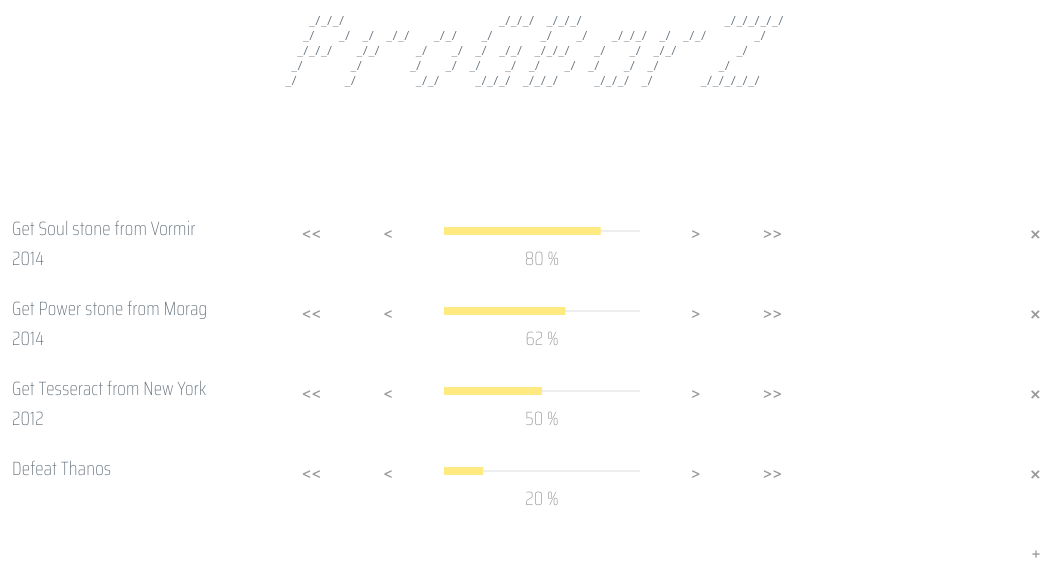
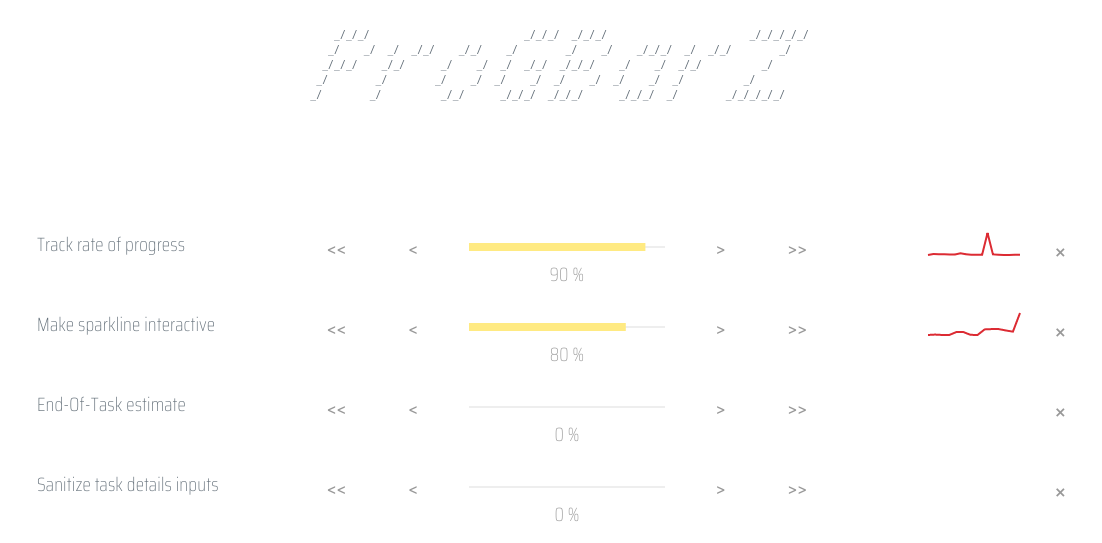
Feature/progress rate (#4) (#5)
* fixed bar update value bug

* Create FUNDING.yml

* Create CODE_OF_CONDUCT.md

* Create CONTRIBUTING.md

* Update issue templates

* added screenshot

* screenshot fix

* Feature/projects (#3)

* added migration facility

* added migration documentation

* markdown formatting

* markdown formatting

* markdown formatting

* fixed typo

* added screenshot

* screenshot fix

* screenshot fix

* initial styling of projects row

* promisified database decoration

* added projects marko component

* added ability to select project and show relevant tasks

* fixed migration process and now making sure that when we create the initial db we also run all migrations

* now using a left hand sidenave for project listing

* modified the position of the sidenav bar

* correctly updating project/task join table

* added ability to add projects

* added ability to modify project's name

* fixed bar update rest call

* added is_active column for projects

* added support for archiving projects

* making sure we redirect to the correct project whenever we delete a task

* initial commit of progress rate visualisation

* added static sparkline + sparkline marko component

* implemented progress rate computation and dynamic sparkline data injection

* updated screenshot

* updated screenshot

* added blurb about progress rate

diff --git a/public/js/sparkline.js b/public/js/sparkline.js
@@ -1,0 +1,2 @@
+var sparkline=function(t){var e={};function r(n){if(e[n])return e[n].exports;var o=e[n]={i:n,l:!1,exports:{}};return t[n].call(o.exports,o,o.exports,r),o.l=!0,o.exports}return r.m=t,r.c=e,r.d=function(t,e,n){r.o(t,e)||Object.defineProperty(t,e,{enumerable:!0,get:n})},r.r=function(t){"undefined"!=typeof Symbol&&Symbol.toStringTag&&Object.defineProperty(t,Symbol.toStringTag,{value:"Module"}),Object.defineProperty(t,"__esModule",{value:!0})},r.t=function(t,e){if(1&e&&(t=r(t)),8&e)return t;if(4&e&&"object"==typeof t&&t&&t.__esModule)return t;var n=Object.create(null);if(r.r(n),Object.defineProperty(n,"default",{enumerable:!0,value:t}),2&e&&"string"!=typeof t)for(var o in t)r.d(n,o,function(e){return t[e]}.bind(null,o));return n},r.n=function(t){var e=t&&t.__esModule?function(){return t.default}:function(){return t};return r.d(e,"a",e),e},r.o=function(t,e){return Object.prototype.hasOwnProperty.call(t,e)},r.p="",r(r.s=1)}([function(t,e,r){var n=r(2),o=r(3),i=r(4);t.exports=function(t){return n(t)||o(t)||i()}},function(t,e,r){"use strict";r.r(e),r.d(e,"sparkline",function(){return c});var n=r(0),o=r.n(n);function i(t,e,r,n){return parseFloat((e-n*e/t+r).toFixed(2))}function a(t){return t.value}function u(t,e){var r=document.createElementNS("http://www.w3.org/2000/svg",t);for(var n in e)r.setAttribute(n,e[n]);return r}function c(t,e,r){var n;if(n=t,o()(n.querySelectorAll("*")).forEach(function(t){return n.removeChild(t)}),!(e.length<=1)){r=r||{},"number"==typeof e[0]&&(e=e.map(function(t){return{value:t}}));var c=r.onmousemove,l=r.onmouseout,s="interactive"in r?r.interactive:!!c,f=r.spotRadius||2,p=2*f,d=r.cursorWidth||2,v=parseFloat(t.attributes["stroke-width"].value),b=r.fetch||a,h=e.map(function(t){return b(t)}),y=parseFloat(t.attributes.width.value)-2*p,x=parseFloat(t.attributes.height.value),m=x-2*v-p,g=Math.max.apply(Math,o()(h)),A=-1e3,w=h.length-1,j=y/w,k=[],O=i(g,m,v+f,h[0]),S="M".concat(p," ").concat(O);h.forEach(function(t,r){var n=r*j+p,o=i(g,m,v+f,t);k.push(Object.assign({},e[r],{index:r,x:n,y:o})),S+=" L ".concat(n," ").concat(o)});var M=u("path",{class:"sparkline--line",d:S,fill:"none"}),C=u("path",{class:"sparkline--fill",d:"".concat(S," V ").concat(x," L ").concat(p," ").concat(x," Z"),stroke:"none"});if(t.appendChild(C),t.appendChild(M),s){var E=u("line",{class:"sparkline--cursor",x1:A,x2:A,y1:0,y2:x,"stroke-width":d}),_=u("circle",{class:"sparkline--spot",cx:A,cy:A,r:f});t.appendChild(E),t.appendChild(_);var F=u("rect",{width:t.attributes.width.value,height:t.attributes.height.value,style:"fill: transparent; stroke: transparent",class:"sparkline--interaction-layer"});t.appendChild(F),F.addEventListener("mouseout",function(t){E.setAttribute("x1",A),E.setAttribute("x2",A),_.setAttribute("cx",A),l&&l(t)}),F.addEventListener("mousemove",function(t){var e=t.offsetX,r=k.find(function(t){return t.x>=e});r||(r=k[w]);var n,o=k[k.indexOf(r)-1],i=(n=o?o.x+(r.x-o.x)/2<=e?r:o:r).x,a=n.y;_.setAttribute("cx",i),_.setAttribute("cy",a),E.setAttribute("x1",i),E.setAttribute("x2",i),c&&c(t,n)})}}}e.default=c},function(t,e){t.exports=function(t){if(Array.isArray(t)){for(var e=0,r=new Array(t.length);e<t.length;e++)r[e]=t[e];return r}}},function(t,e){t.exports=function(t){if(Symbol.iterator in Object(t)||"[object Arguments]"===Object.prototype.toString.call(t))return Array.from(t)}},function(t,e){t.exports=function(){throw new TypeError("Invalid attempt to spread non-iterable instance")}}]);
+//# sourceMappingURL=sparkline.js.map

diff --git a/server.js b/server.js
@@ -3,7 +3,7 @@ const path    = require('path')
 const dotenv  = require('dotenv')
 const figlet  = require('figlet')
 const util    = require('util')
-
+const Utils   = require('./utils')
 const text    = util.promisify(figlet.text)
 
 // load the environment
@@ -31,27 +31,34 @@ fastify.get('/:projectId', async (request, reply) => {
 	// prep title
 	const title = await text('ProGBarZ', {font: 'Lean'})
 	// prep tasks list
-	let tasks = [];
-	let projects = [];
-	let projectId = null;
+	let tasks = []
+	let projects = []
+	let projectId = null
+	let ratesByTaskId = {}
+
 	try {
 		// load projects
 		let sql  = 'SELECT id, name FROM pgbz_project WHERE is_active=1 ORDER BY name'
 		projects = await fastify.db.all(sql, []) 
-		// check if we have a project Id in the request ...
+		// check if we have a project Id in the request
+		// otherwise load tasks for first project if any
 		projectId = request.params.projectId || projects[0].id || 0
-		// ... otherwise load tasks for first project if any
 		if (projectId) {
 			// TODO: get last selected project from session or db
 			sql = 'SELECT t.id, t.name, t.progress FROM pgbz_task t, pgbz_project_tasks pt WHERE pt.project_id=? AND t.id = pt.task_id ORDER BY progress DESC'
 			tasks = await fastify.db.all(sql, [projectId])
+			// compute the progress sparklines
+			taskIdsString = tasks.map( (task) => task.id ).join(',')
+			sql = `SELECT * FROM pgbz_progress_time WHERE task_id IN (${taskIdsString}) ORDER BY task_id, t`
+			tSeriesData = await fastify.db.all(sql, [])
+			ratesByTaskId = Utils.computeProgressTimeSeries(tSeriesData)
 		}
 	}
 	catch (err) {
 		fastify.log.error(err)
 	}
 	finally {
-		reply.view('progbarz.marko', { projects: projects, tasks: tasks, title: title, selected: projectId })
+		reply.view('progbarz.marko', { projects: projects, tasks: tasks, title: title, selected: projectId, rates: ratesByTaskId })
 	}
 	return reply
 })
@@ -69,7 +76,7 @@ fastify.post('/tasks/add', async (request, reply) => {
 		await fastify.db.run(sql, [taskName, '', now, now, 0])
 		// update the link between project and task
 		await fastify.db.run('INSERT INTO pgbz_project_tasks (project_id, task_id) VALUES (?, last_insert_rowid())', [projectId])
-		
+
 		reply.code(201)
 			 .header('Content-Type', 'application/json; charset=utf-8')
 			 .send({msg: 'OK'})	
@@ -107,10 +114,6 @@ fastify.post('/projects/add', async (request, reply) => {
 	return reply
 })
 
-fastify.post('/projects/archive', async (request, reply) => {
-
-} )
-
 fastify.post('/tasks/remove', async (request, reply) => {
 	const taskId    = request.body.task_id
 	const projectId = request.body.project_id
@@ -145,6 +148,11 @@ fastify.post('/tasks/update', async(request, reply) => {
 
 	try {
 		await fastify.db.run(sql, [target, now, taskId])
+		// if this is a progress update
+		// add this data point to the task progress time series
+		if (targetField == 'progress')
+			await fastify.db.run('INSERT INTO pgbz_progress_time (task_id, progress_at_t, t) VALUES (?, ?, ?)', [taskId, target, now])
+		
 		reply.code(200)
 		     .header('Content-Type', 'application/json; charset=utf-8')
 			 .send({msg: 'OK'})

diff --git a/utils.js b/utils.js
@@ -1,0 +1,45 @@
+const _ = require('underscore')
+
+
+class Utils {
+	/*
+	 * Given an array of progress-at-time-t objects
+	 * it groups the data by task id and for each task
+	 * computes a time series of progress-by-hour rates
+	 */
+	static computeProgressTimeSeries(series) {
+		const seriesByTaskId = _.groupBy(series, 'task_id')
+		// only consider the last N data points for each task
+		const N = 50
+
+		let ratesByTaskId = {}
+
+		for ( const [key, value] of Object.entries(seriesByTaskId) ) {
+			const data = _.last(value, N)
+			// data is now a list of objects ordered
+			// by the timestamp property t 
+			// we need to compute the series 
+			// {(P_{n+1} - P_n) / (t_{n+1} - t_n)}
+			// for n = 0 to data.length
+			const pList = data.map( x => x.progress_at_t )
+			const tList = data.map( x => parseInt(x.t) )
+
+			let rates = []
+			
+			for (var n = 0; n < pList.length - 2; n++) {
+				// we want delta_t in hours
+				// whereby each t is in number of
+				// millseconds from 01-01-1970
+				let dt = (tList[n+1] - tList[n]) 
+				let dp = pList[n+1] - pList[n]
+				// avoid division by 0
+				if (dt > 0)
+					rates.push( dp / dt )
+			}
+			ratesByTaskId[key] = rates
+		}
+		return ratesByTaskId
+	}
+}
+
+module.exports = Utils

diff --git a/public/css/style.css b/public/css/style.css
@@ -155,3 +155,67 @@ pre.progbarz-title code {
     right: 25px;
     margin-left: 237px;
 }
+
+.sparkline {
+  fill: none;
+}
+
+.sparkline--red {
+  stroke: #dc2b33;
+}
+
+.sparkline--red.sparkline--filled {
+  fill: rgba(220, 43, 51, 0.3);
+}
+
+.sparkline--blue {
+  stroke: #3d85de;
+}
+
+.sparkline--blue.sparkline--filled {
+  fill: rgba(61, 133, 222, 0.3);
+}
+
+.sparkline--green {
+  stroke: #4c9b4c;
+}
+
+.sparkline--green.sparkline--filled {
+  fill: rgba(76, 155, 76, 0.3);
+}
+
+.sparkline--gray {
+  stroke: #777;
+}
+
+.sparkline--gray.sparkline--filled {
+  fill: rgba(119, 119, 119, 0.3);
+}
+
+.sparkline--orange {
+  stroke: #e36023;
+}
+
+.sparkline--orange.sparkline--filled {
+  fill: rgba(227, 96, 35, 0.3);
+}
+
+.sparkline--purple {
+  stroke: #573585;
+}
+
+.sparkline--purple.sparkline--filled {
+  fill: rgba(87, 53, 133, 0.3);
+}
+
+.sparkline--yellow {
+  stroke: #fdd700;
+}
+
+.sparkline--yellow.sparkline--filled {
+  fill: rgba(253, 215, 0, 0.3);
+}
+
+.sparkline--pink {
+  stroke: #db3b9e;
+}

diff --git a/public/js/main.js b/public/js/main.js
@@ -72,6 +72,14 @@ class ProGBarZ {
 					return self.projectUpdate(projId, projName) 
 				}
 			} )
+			// initialise sparklines
+			var sparklines = document.querySelectorAll('.sparkline')
+			sparklines.forEach( (s) => {
+				var data = s.getAttribute('data-rates')
+				if (data != '')
+					data = data.split(',').map( x => parseFloat(x) )
+				sparkline.sparkline(s, data, {interactive: true});
+			} )
 		}
 	}
 

diff --git a/README.md b/README.md
@@ -2,7 +2,7 @@
 Create task lists with associated progress bars.
 
 <div align="center">
-<img src="https://github.com/cs0lar/ProGBarZ/raw/master/screenshot.png" width="800" height="auto"/>
+    <img src="https://github.com/cs0lar/ProGBarZ/raw/master/screenshot.png" width="800" height="auto"/>
 </div>
 
 # Getting Started
@@ -16,6 +16,7 @@ ProGBarZ relies on the following frameworks:
 2. The [marko](https://markojs.com/) templating engine
 3. The [progressbar.js](https://kimmobrunfeldt.github.io/progressbar.js/) library for shaped progress bars
 4. The [node-sqlite3](https://github.com/mapbox/node-sqlite3) client library to interact with the SQLite persistence engine
+5. The [sparkline](https://github.com/fnando/sparkline) library to draw the  progress rate graph for each task
 
 # Migrations
 ProGBarZ supports a very simple strategy for database migrations via the command:
@@ -34,3 +35,5 @@ Run all migrations found in the project's `sql` directory starting from `migrati
 ```sh
 npm run migrate -- --db=/opt/mydb.sqlite --start=12
 ```
+# Sparklines
+Sparklines next to each task highlight the progress rate for each task. Large spikes denote that large chunks of progress were logged in a relatively short amount of time - the higher the value, the faster you are progressing through your task.
